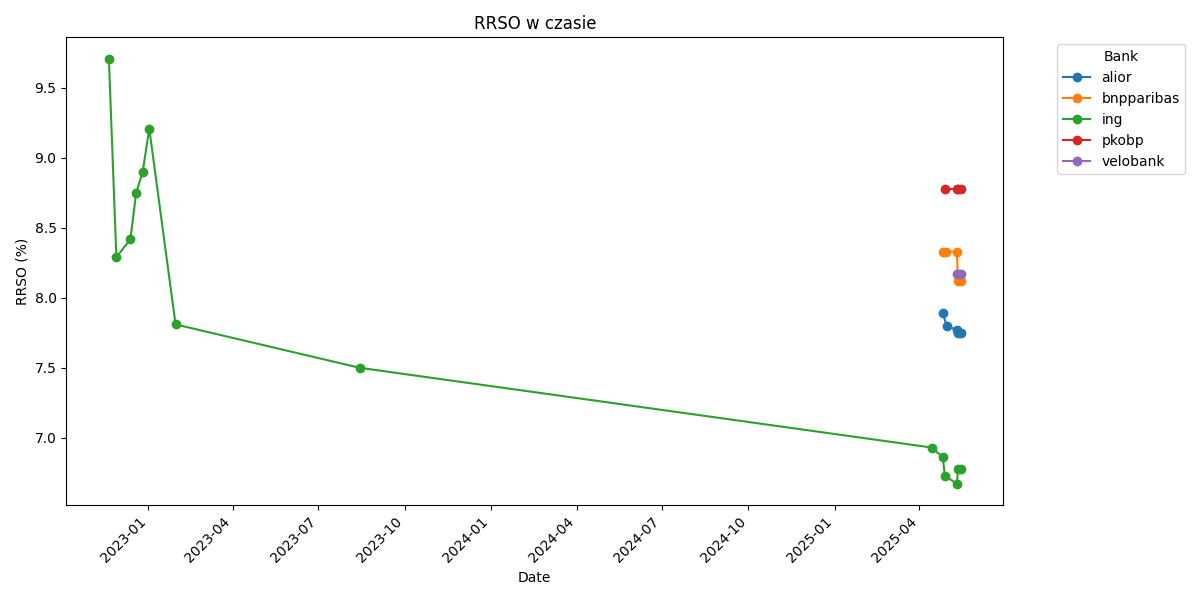
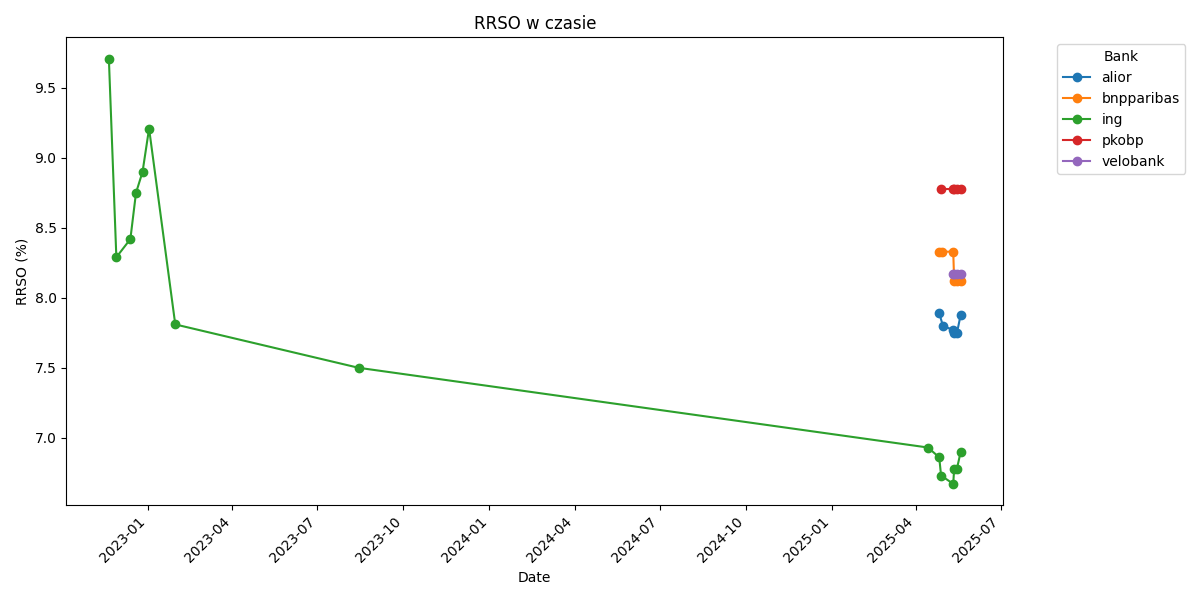
May 19th, data update, fixed apr graph

diff --git a/scripts/make_graph.py b/scripts/make_graph.py
@@ -61,7 +61,7 @@ plt.savefig(img_output_dir / "output_fixed_rate_plot.png")
 plt.show()
 
 # Step 8: Filter out rows where APR is 0 and take the best (lowest) APR for each bank
-df_apr = df[df["apr"] > 0]  # Exclude rows where APR is 0
+df_apr = df_fixed[df_fixed["apr"] > 0]  # Exclude rows where APR is 0
 df_apr = df_apr.loc[df_apr.groupby("bank")["apr"].idxmin()]
 
 # Step 9: Sort the DataFrame by APR
